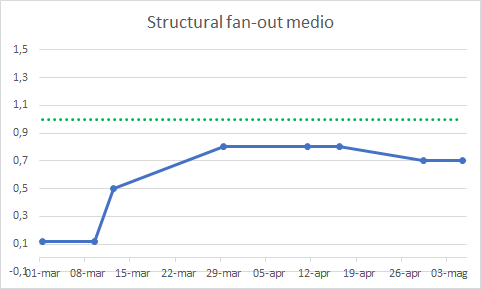
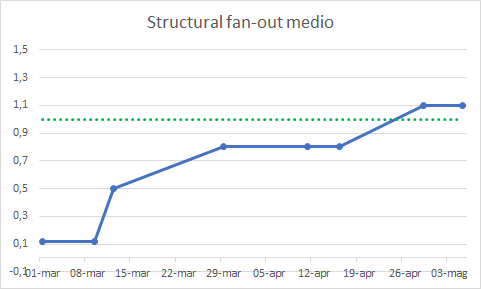
[PdQ] modifica grafico

Changed region(s): [[0.7173, 0.3737, 0.9667, 0.5606], [0.8732, 0.3426, 0.9667, 0.3737]]

diff --git a/RA/PianoDiQualifica/Res/Sezioni/ResocontoAttivitaVerifica.tex b/RA/PianoDiQualifica/Res/Sezioni/ResocontoAttivitaVerifica.tex
@@ -265,16 +265,8 @@
     	\caption{Serie storica dei requisiti obbligatori soddisfatti}
     	\label{obbl} 
     \end{figure}
-    \paragraph{Structural fan-in} \Spazio
-    Questo indice va massimizzato, visto però il numero limitato di componenti è difficile ottenere un valore alto.
-    \begin{figure}[H]
-    	\centering 
-    	\includegraphics[width=0.7\textwidth]{Images/SFIN.png}
-    	\caption{Serie storica del Structural fan-in}
-    	\label{SFIN} 
-    \end{figure}
     \paragraph{Structural fan-out} \Spazio
-    Questo indice va minimizzato, il gruppo è sempre riuscito a mantenere il suo valore nel range ottimale.
+    Questo indice va minimizzato, il gruppo è sempre riuscito a mantenere il suo valore nel range accettabile.
     \begin{figure}[H]
     	\centering 
     	\includegraphics[width=0.7\textwidth]{Images/SFOUT.png}
